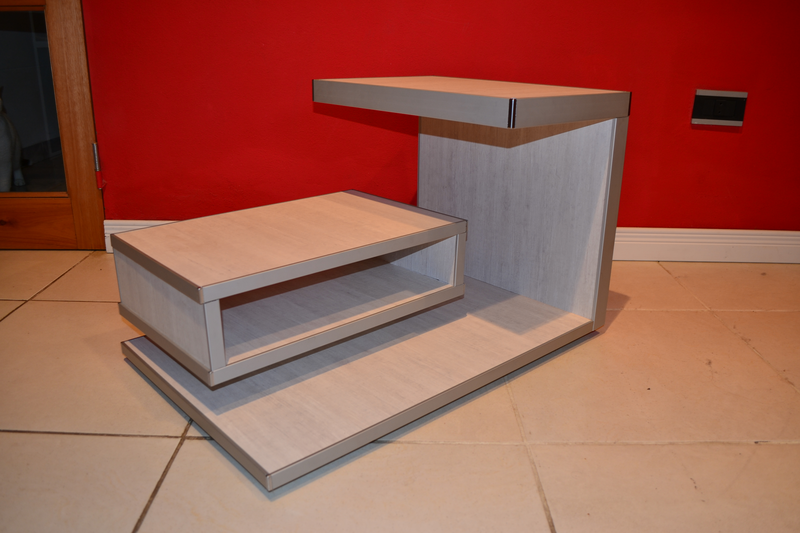
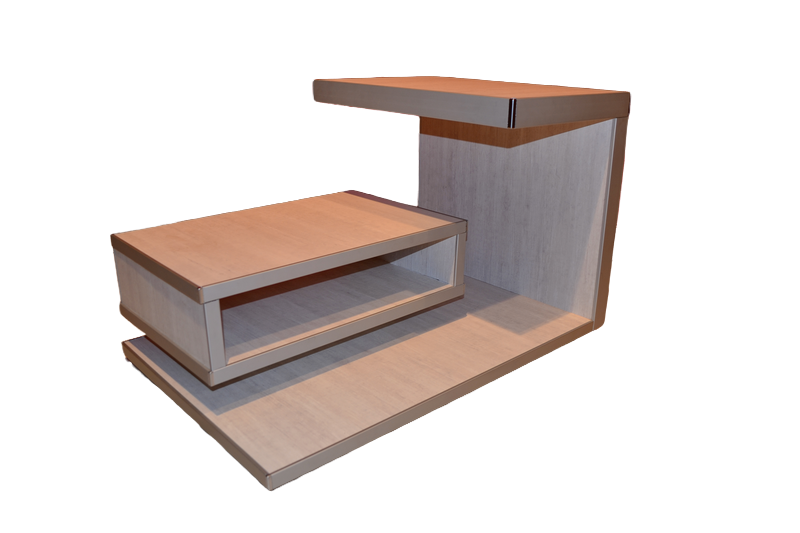
Incluyo un mapa, un mixin y un extend, tambien saque los fondos de las imagenes de producto

diff --git a/index.html b/index.html
@@ -20,11 +20,11 @@
   <!--Aqui comienza el header de la pagina que incluye nombre de la empresa con el vinculos al index-->
   <header class="headCont container position-relative">
     <div class="container text-center h1">
-      <a class="isotype text col-xs-8 col-md-6" href="./index.html">AmueblAR </a>
+      <a class="isotype col-xs-8 col-md-6" href="./index.html">AmueblAR </a>
     </div>
 
     <!-- Aqui comienza la barra de navegacion son cuatro elementos con sus correspondientes links a cada seccion de la web -->
-    <nav class="container navbar sticky-top navbar-expand-md navbar-light bg-ligth justify-content-end">
+    <nav class="container navbar navbar-expand-md navbar-light bg-ligth justify-content-end">
       <div class="text-start">
         <button class="navbar-toggler" type="button" data-bs-toggle="collapse" data-bs-target="#navbarNav"
           aria-controls="navbarNav" aria-expanded="false" aria-label="Toggle navigation">
@@ -54,16 +54,16 @@
   <main class="mainCont container img-fluid">
     <div id="carouselExampleFade" class="carousel slide carousel-fade" data-bs-ride="carousel">
       <div class="carousel-inner">
-        <div class="carousel-item active" data-bs-interval="5000">
+        <div class="carousel-item active tamaño1" data-bs-interval="4000">
           <img src="./assets/carousel-1.jpg" class="d-block w-100 caro" alt="imagen 1">
         </div>
-        <div class="carousel-item" data-bs-interval="5000">
+        <div class="carousel-item tamaño1" data-bs-interval="4000">
           <img src="./assets/carousel-2.jpg" class="d-block w-100 caro" alt="imagen 2">
         </div>
-        <div class="carousel-item" data-bs-interval="5000">
+        <div class="carousel-item tamaño1" data-bs-interval="4000">
           <img src="./assets/carousel-3.jpg" class="d-block w-100 caro" alt="imagen 3">
         </div>
-        <div class="carousel-item" data-bs-interval="5000">
+        <div class="carousel-item tamaño1" data-bs-interval="4000">
           <img src="./assets/carousel-4.jpg" class="d-block w-100 caro" alt="imagen 4">
         </div>
       </div>
@@ -75,7 +75,6 @@
   </main>
   <!--Aqui comienza el pie de pagina conteniendo el enlace a la seccion de contacto y el copyright de la web-->
   <footer class="footCont">
-    <a target="_blank" href="./pages/contacto.html"> <img class="mail" src="./assets/correo.png" alt="Contacto"></a>
     <div class="copy">&#9400 Copyright 2022</div>
   </footer>
   <script src="https://cdn.jsdelivr.net/npm/bootstrap@5.0.2/dist/js/bootstrap.bundle.min.js"

diff --git a/scss/stylesheet.scss b/scss/stylesheet.scss
@@ -25,7 +25,8 @@
 
 /* cambio el color de fondo de toda la pagina */
 body {
-    background-color: $backgroundColor;
+    background-color: map-get($colors, backgroundColor);
+    height: 90vh;
 }
 
 /* Doy formato al logo de la empresa y a la vez hago la animacion para cuando el cursor le pasa por arriba */
@@ -33,16 +34,16 @@ body {
     text-decoration: none;
     font-family: Bonheur;
     font-size: 10vw;
-    color: $orange;
+    color: map-get($colors, orange);
 
-        {
-        text &:hover color: $dark;
+    &:hover {
+        color: map-get($colors, dark);
     }
 }
 
 /* Doy color al fondo de las tajetas de producto */
 .bacgroundColor {
-    background-color: $light;
+    background-color: map-get($colors, light);
 }
 
 /* Doy mas aire entre las tarjetas de producto */
@@ -53,13 +54,18 @@ body {
 /* Doy formato a los subtitulos del documento*/
 .titleCP {
     font-family: rubik-ita;
-    color: $orange;
+    color: map-get($colors, orange);
+}
+/* Hago un extend para dar formato de fuente, color y padding */
+format {
+    font-family: rubik-black;
+    color: map-get($colors, dark);
+    padding: 0.5rem;
 }
 
 /* Doy formato a todos los parrafos del documento */
 .parraf {
-    font-family: rubik-black;
-    color: $dark;
+    @extend format;
     padding: 0.5rem;
 }
 
@@ -71,18 +77,28 @@ body {
     right: 15px;
     transition: box-shadow 0.5s ease;
     border-radius: 1rem;
-    &:hover box-shadow: .5rem 0.5rem rgba(0, 0, 0, 0.2);
+
+    &:hover {
+        @include shadowBox;
+    }
 }
 
 /* Doy tamaño al logo de wp y lo hago mas grande al pasar el cursor */
 .isowp {
     height: 10vw;
-    &:hover height: 12vw;
+
+    &:hover {
+        height: 12vw;
+    }
 }
 
 /* Doy tamaño al iframe */
 .tamaño {
     height: 60vh;
+}
+
+.tamaño1 {
+    height: 50vh;
 }
 
 /* Desde aqui y los proximos tres bloques se encargan del footer, tanto del icono de correo, como la animacion y el formato del copy */
@@ -91,20 +107,9 @@ body {
     grid-row: 4/5;
 }
 
-.mail {
-    display: block;
-    margin-left: auto;
-    margin-right: auto;
-    width: 8%;
-    transition: box-shadow 0.5s ease;
-    border-radius: 0.8rem;
-    &:hover box-shadow: .5rem 0.5rem rgba(0, 0, 0, 0.2);
-}
-
 .copy {
-    font-family: rubik-black;
-    font-size: 1rem;
-    color: $dark;
+    @extend format;
+    font-size: 1rem;    
     text-align: left;
     margin-top: 10px;
 }

diff --git a/css/stylesheet.css b/css/stylesheet.css
@@ -18,28 +18,41 @@
   padding: 0;
   box-sizing: border-box; }
 
+/* cambio el color de fondo de toda la pagina */
 body {
-  background-color: #ccc5b9; }
+  background-color: #ccc5b9;
+  height: 90vh; }
 
+/* Doy formato al logo de la empresa y a la vez hago la animacion para cuando el cursor le pasa por arriba */
 .isotype {
   text-decoration: none;
   font-family: Bonheur;
   font-size: 10vw;
   color: #EB5E28; }
+  .isotype:hover {
+    color: #403D39; }
 
-.isotype.text:hover {
-  color: #403D39; }
-
+/* Doy color al fondo de las tajetas de producto */
 .bacgroundColor {
   background-color: #EBE3D5; }
 
+/* Doy mas aire entre las tarjetas de producto */
+.space {
+  padding: 1rem; }
+
+/* Doy formato a los subtitulos del documento*/
 .titleCP {
   font-family: rubik-ita;
   color: #EB5E28; }
 
-.parraf {
+/* Hago un extend para dar formato de fuente, color y padding */
+format, .parraf, .copy {
   font-family: rubik-black;
   color: #403D39;
+  padding: 0.5rem; }
+
+/* Doy formato a todos los parrafos del documento */
+.parraf {
   padding: 0.5rem; }
 
 /* Doy formato al logo de instagram, y el siguiente bloque se encarga de la animacion */
@@ -50,44 +63,28 @@ body {
   right: 15px;
   transition: box-shadow 0.5s ease;
   border-radius: 1rem; }
-
-.isoInsta:hover {
-  box-shadow: 0.5rem 0.5rem rgba(0, 0, 0, 0.2); }
+  .isoInsta:hover {
+    box-shadow: 0.5rem 0.5rem rgba(0, 0, 0, 0.2); }
 
 /* Doy tamaño al logo de wp y lo hago mas grande al pasar el cursor */
 .isowp {
   height: 10vw; }
-
-.isowp:hover {
-  height: 12vw; }
+  .isowp:hover {
+    height: 12vw; }
 
 /* Doy tamaño al iframe */
 .tamaño {
   height: 60vh; }
 
-/* Doy mas aire entre las tarjetas de producto */
-.space {
-  padding: 1rem; }
+.tamaño1 {
+  height: 50vh; }
 
 /* Desde aqui y los proximos tres bloques se encargan del footer, tanto del icono de correo, como la animacion y el formato del copy */
 .footCont {
   grid-column: 1/5;
   grid-row: 4/5; }
 
-.mail {
-  display: block;
-  margin-left: auto;
-  margin-right: auto;
-  width: 8%;
-  transition: box-shadow 0.5s ease;
-  border-radius: 0.8rem; }
-
-.mail:hover {
-  box-shadow: 0.5rem 0.5rem rgba(0, 0, 0, 0.2); }
-
 .copy {
-  font-family: rubik-black;
   font-size: 1rem;
-  color: #403D39;
   text-align: left;
   margin-top: 10px; }

diff --git a/pages/productos.html b/pages/productos.html
@@ -16,11 +16,11 @@
 
 </head>
 
-<body class="gridCont">
+<body class="gridCont position-relative">
   <!--Aqui comienza el header de la pagina que incluye nombre de la empresa con el vinculos al index-->
   <header class="headCont container position-relative">
     <div class="container text-center h1">
-      <a class="isotype text col-xs-8 col-md-6" href="../index.html">AmueblAR </a>
+      <a class="isotype  col-xs-8 col-md-6" href="../index.html">AmueblAR </a>
     </div>
     <!-- Aqui comienza la barra de navegacion son cinco elementos con sus correspondientes links a cada seccion de la web -->
     <nav class="container navbar sticky-top navbar-expand-md navbar-light bg-ligth justify-content-end">
@@ -215,7 +215,6 @@
   <!--Aqui comienza el pie de pagina conteniendo el enlace a la seccion de contacto y el copyright de la web-->
 
   <footer class="footCont">
-    <!--  <a target="_blank" href="../pages/contacto.html"> <img class="mail" src="../assets/correo.png" alt="Contacto"></a> -->
     <div class="copy">&#9400 Copyright 2022</div>
   </footer>
   <script src="https://cdn.jsdelivr.net/npm/bootstrap@5.0.2/dist/js/bootstrap.bundle.min.js"

diff --git a/pages/info-clientes.html b/pages/info-clientes.html
@@ -103,8 +103,6 @@
     </main>
     <!--Aqui comienza el pie de pagina conteniendo el enlace a la seccion de contacto y el copyright de la web-->
     <footer class="footCont">
-        <a target="_blank" href="../pages/contacto.html"> <img class="mail" src="../assets/correo.png"
-                alt="Contacto"></a>
         <div class="copy">&#9400 Copyright 2022</div>
     </footer>
     <script src="https://cdn.jsdelivr.net/npm/bootstrap@5.0.2/dist/js/bootstrap.bundle.min.js"

diff --git a/pages/sobre-nosotros.html b/pages/sobre-nosotros.html
@@ -94,7 +94,6 @@
   </main>
   <!--Aqui comienza el pie de pagina conteniendo el enlace a la seccion de contacto y el copyright de la web-->
   <footer class="footCont">
-    <a target="_blank" href="../pages/contacto.html"> <img class="mail" src="../assets/correo.png" alt="Contacto"></a>
     <div class="copy">&#9400 Copyright 2022</div>
   </footer>
   <script src="https://cdn.jsdelivr.net/npm/bootstrap@5.0.2/dist/js/bootstrap.bundle.min.js"

diff --git a/scss/_var.scss b/scss/_var.scss
@@ -1,4 +1,8 @@
-$bacgroundColor:#ccc5b9;
-$orange:#EB5E28;
-$dark:#403D39;
-$light:#EBE3D5;
+$colors: (backgroundColor: #ccc5b9,
+    orange:#EB5E28,
+    dark:#403D39,
+    light:#EBE3D5);
+
+    @mixin shadowBox {
+        box-shadow: .5rem 0.5rem rgba(0, 0, 0, 0.2);
+    }
